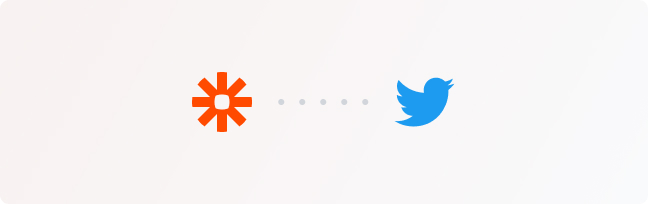
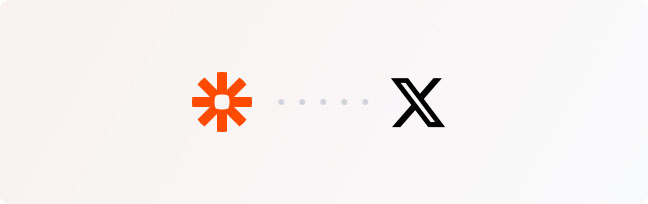
Twitter to X (#1835)

Changed region(s): [[0.5864, 0.3824, 0.7099, 0.6471]]

diff --git a/frontend/src/integrations/twitter/components/twitter-connect-modal.vue b/frontend/src/integrations/twitter/components/twitter-connect-modal.vue
@@ -3,10 +3,10 @@
     <template #header>
       <div>
         <p class="text-2xs leading-5 text-gray-500 mb-0.5">
-          Twitter integration
+          X/Twitter integration
         </p>
         <h4 class="text-base font-semibold">
-          Connect Twitter via Zapier
+          Connect X/Twitter via Zapier
         </h4>
       </div>
     </template>
@@ -14,8 +14,8 @@
       <div class="px-6 pb-6">
         <img src="/images/integrations/twitter-zapier.jpg" alt="Twitter Zapier integration" class="w-full mb-6">
         <p class="text-sm leading-5 text-gray-500 pb-8">
-          Due to Twitter’s recent API changes, our native Twitter integration was discontinued on April 31st, 2023.
-          To keep tracking Twitter activities, you will have to use Zapier.
+          Due to X/Twitter’s recent API changes, our native X/Twitter integration was discontinued on April 31st, 2023.
+          To keep tracking X/Twitter activities, you will have to use Zapier.
           The Zapier workflow will require some manual set-up, and a Zapier premium account (starting from $19.99/month).
         </p>
         <a href="https://zapier.com/shared/create-activities-in-crowddev-from-new-twitter-followers/e61afb14fdd16e7235343aab9aa57b4d40a71ecf" target="_blank" rel="noopener noreferrer" class="mb-4 block">

diff --git a/frontend/src/modules/integration/components/integration-list-page.vue b/frontend/src/modules/integration/components/integration-list-page.vue
@@ -125,7 +125,7 @@ export default {
             vertical: true,
             type: 'custom',
             icon: '<img src="https://cdn-icons-png.flaticon.com/512/3800/3800024.png" class="h-8 w-8" alt="slack logo" />',
-            title: `<span class="flex items-start gap-1">Connect Slack bot 
+            title: `<span class="flex items-start gap-1">Connect Slack bot
               <span class="text-brand-500 text-3xs leading-3 pt-1 font-normal">Required</span></span>`,
             titleClass: 'text-lg',
             message: `
@@ -149,7 +149,7 @@ export default {
       immediate: true,
       handler(value) {
         if (value) {
-          Message.error('Something went wrong during Twitter OAuth. Please try again later.');
+          Message.error('Something went wrong during X/Twitter OAuth. Please try again later.');
         }
       },
     },

diff --git a/frontend/src/integrations/twitter/config.js b/frontend/src/integrations/twitter/config.js
@@ -4,13 +4,13 @@ import TwitterConnect from './components/twitter-connect.vue';
 
 export default {
   enabled: true,
-  name: 'Twitter',
+  name: 'X/Twitter',
   backgroundColor: '#d2ebfc',
   borderColor: '#d2ebfc',
   description:
-    'Connect Twitter to sync profile information, followers, and relevant tweets.',
+    'Connect X/Twitter to sync profile information, followers, and relevant tweets.',
   image:
-    'https://cdn-icons-png.flaticon.com/512/733/733579.png',
+    '/images/integrations/twitter-x.svg',
   connectComponent: config.isTwitterIntegrationEnabled ? TwitterConnect2 : TwitterConnect,
   url: ({ username }) => (username ? `https://twitter.com/${username}` : null),
   chartColor: '#1D9BF0',

diff --git a/frontend/src/modules/settings/settings-pricing-plans.js b/frontend/src/modules/settings/settings-pricing-plans.js
@@ -139,7 +139,7 @@ export const plans = {
         'Unlimited community contacts & activities',
         'Community management',
         'Community intelligence',
-        'Integrations with GitHub, Discord, Slack, Twitter, DEV, Hacker News',
+        'Integrations with GitHub, Discord, Slack, X/Twitter, DEV, Hacker News',
         'Community support',
       ],
       ctaLabel: {

diff --git a/frontend/src/integrations/twitter/components/twitter-connect-drawer.vue b/frontend/src/integrations/twitter/components/twitter-connect-drawer.vue
@@ -2,11 +2,11 @@
   <app-drawer
     v-model="isVisible"
     custom-class="integration-twitter-drawer"
-    title="Twitter"
+    title="X/Twitter"
     size="600px"
     pre-title="Integration"
     :pre-title-img-src="logoUrl"
-    pre-title-img-alt="Twitter logo"
+    pre-title-img-alt="X/Twitter logo"
     @close="isVisible = false"
   >
     <template #content>

diff --git a/frontend/src/modules/member/components/member-reach.vue b/frontend/src/modules/member/components/member-reach.vue
@@ -19,7 +19,7 @@
               }}</span>
           </div>
           <div v-if="member.reach.twitter !== undefined">
-            Twitter:
+            X/Twitter:
             <span class="font-semibold">{{
                                           formatNumberToCompact(member.reach.twitter)
                                         }}

diff --git a/frontend/src/modules/organization/components/form/organization-form-identities.vue b/frontend/src/modules/organization/components/form/organization-form-identities.vue
@@ -146,7 +146,7 @@ const identitiesForm = reactive({
       'h-8 w-8 rounded flex items-center justify-center text-base btn--linkedin',
   },
   twitter: {
-    label: 'Twitter',
+    label: 'X/Twitter',
     enabled:
       props.modelValue.identities?.some((el) => el.platform === 'twitter')
       || false,

diff --git a/frontend/src/i18n/en.js b/frontend/src/i18n/en.js
@@ -263,7 +263,7 @@ const en = {
         revenueRange: 'Annual revenue',
         activeSince: 'Active since',
         github: 'GitHub',
-        twitter: 'Twitter',
+        twitter: 'X/Twitter',
         linkedin: 'LinkedIn',
         crunchbase: 'Crunchbase',
       },

diff --git a/frontend/src/modules/organization/organization-platform-field.js b/frontend/src/modules/organization/organization-platform-field.js
@@ -24,7 +24,7 @@ export default class OrganizationPlatformField extends StringField {
       },
       {
         value: 'twitter',
-        label: 'Twitter',
+        label: 'X/Twitter',
       },
       {
         value: 'crunchbase',

diff --git a/frontend/src/modules/activity/activity-platform-field.js b/frontend/src/modules/activity/activity-platform-field.js
@@ -29,7 +29,7 @@ export default class ActivityPlatformField extends StringField {
       },
       {
         value: 'twitter',
-        label: 'Twitter',
+        label: 'X/Twitter',
       },
       {
         value: 'devto',

diff --git a/frontend/src/modules/organization/config/filters/activeOn/options.ts b/frontend/src/modules/organization/config/filters/activeOn/options.ts
@@ -12,7 +12,7 @@ const options: MultiSelectFilterOptionGroup[] = [
         value: 'linkedin',
       },
       {
-        label: 'Twitter',
+        label: 'X/Twitter',
         value: 'twitter',
       },
       {

diff --git a/frontend/src/modules/automation/config/automation-types/shared/filter-options/new-activity-filter-options.vue b/frontend/src/modules/automation/config/automation-types/shared/filter-options/new-activity-filter-options.vue
@@ -126,7 +126,7 @@ const computedPlatformOptions = computed(() => [...active.value.map((item) => ({
 })),
 {
   value: 'twitter',
-  label: 'Twitter',
+  label: 'X/Twitter',
 },
 ]);
 
